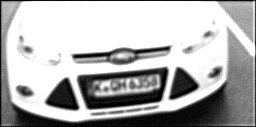
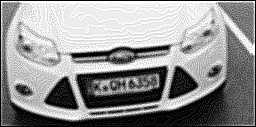
final lab3 q1 done

diff --git a/Lab3/convolution.cpp b/Lab3/convolution.cpp
@@ -32,7 +32,7 @@ int main( int argc, char** argv )
  cvtColor( image, gray_image, CV_BGR2GRAY );
 
  Mat carBlurred;
- GaussianBlur(gray_image,7,carBlurred);
+ GaussianBlur(gray_image,5,carBlurred);
 
  imwrite( "blur.jpg", carBlurred );
 
@@ -44,8 +44,8 @@ Point minLoc;
 Point maxLoc;
 minMaxLoc(sharpenedImage,&minVal,&maxVal,&minLoc,&maxLoc);
 std :: cout << "Max val = \n" << maxVal << "\n\n";
-for (int i=0;i<3;i++){
-GaussianBlur(sharpenedImage,7,carBlurred);	
+for (int i=0;i<5;i++){
+GaussianBlur(sharpenedImage,5,carBlurred);	
 sharpenedImage = 2 * sharpenedImage - carBlurred;
 }
 cv::normalize(sharpenedImage,sharpenedImage,0,255,cv::NORM_MINMAX);

diff --git a/Lab3/filter2d.cpp b/Lab3/filter2d.cpp
@@ -62,7 +62,7 @@ void GaussianBlur(cv::Mat &input, int size, cv::Mat &blurredOutput)
 	for( int m = -kernelRadiusX; m <= kernelRadiusX; m++ ) {
 	  for( int n = -kernelRadiusY; n <= kernelRadiusY; n++ )
            kernel.at<double>(m+ kernelRadiusX, n+ kernelRadiusY) = (double) 1.0/(size*size);
-
+			
        }
 
 	cv::Mat paddedInput;
